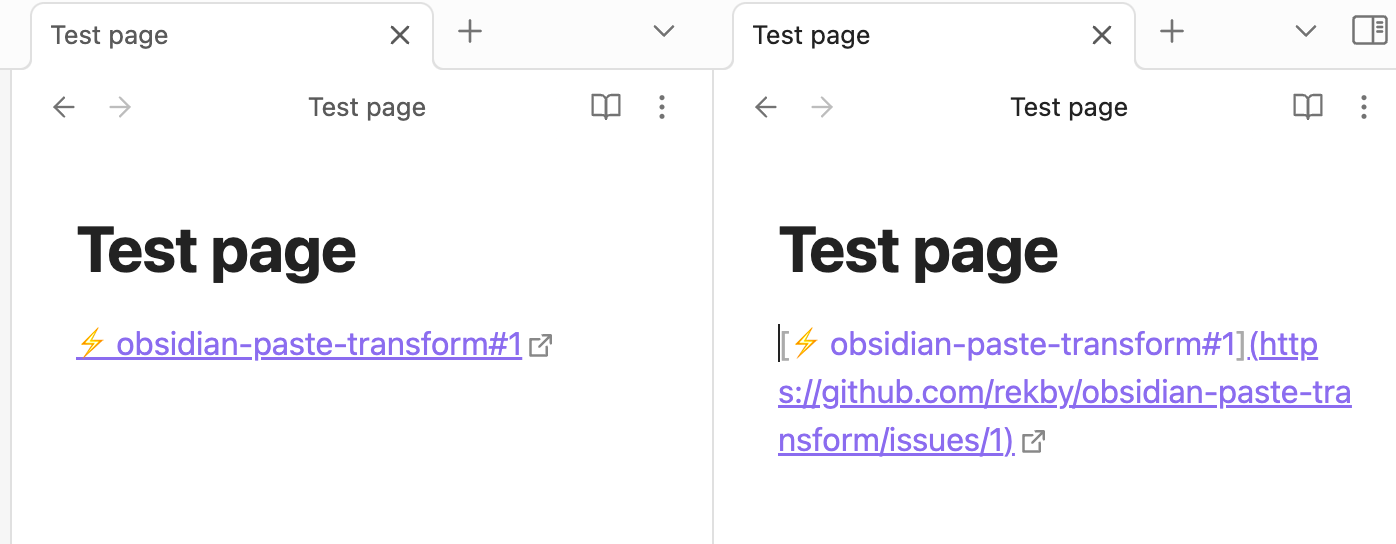
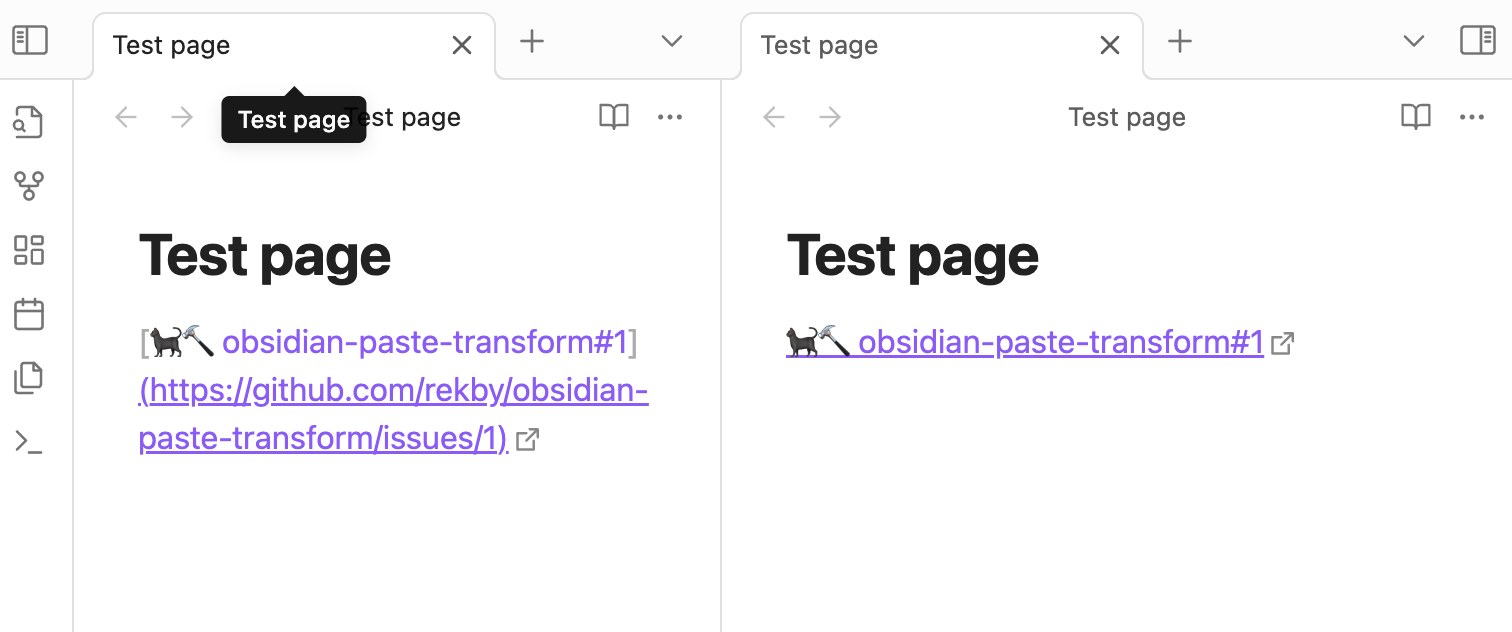
Add template for link to github repository

diff --git a/main.ts b/main.ts
@@ -12,11 +12,13 @@ const DEFAULT_SETTINGS: PasteTransformSettings = {
 	patterns: [
 		"^https://github.com/[^/]+/([^/]+)/issues/(\\d+)$",
 		"^https://github.com/[^/]+/([^/]+)/pull/(\\d+)$",
+		"^https://github.com/[^/]+/([^/]+)$",
 		"^https://\\w+.wikipedia.org/wiki/([^\\s]+)$",
 	],
 	replacers: [
-		"[⚡ $1#$2]($&)",
-		"[📝 $1#$2]($&)",
+		"[🐈⬛🔨 $1#$2]($&)",
+		"[🐈⬛🛠 $1#$2]($&)",
+		"[🐈⬛ $1]($&)",
 		"[📖 $1]($&)",
 	],
 	settingsFormatVersion: 1,
